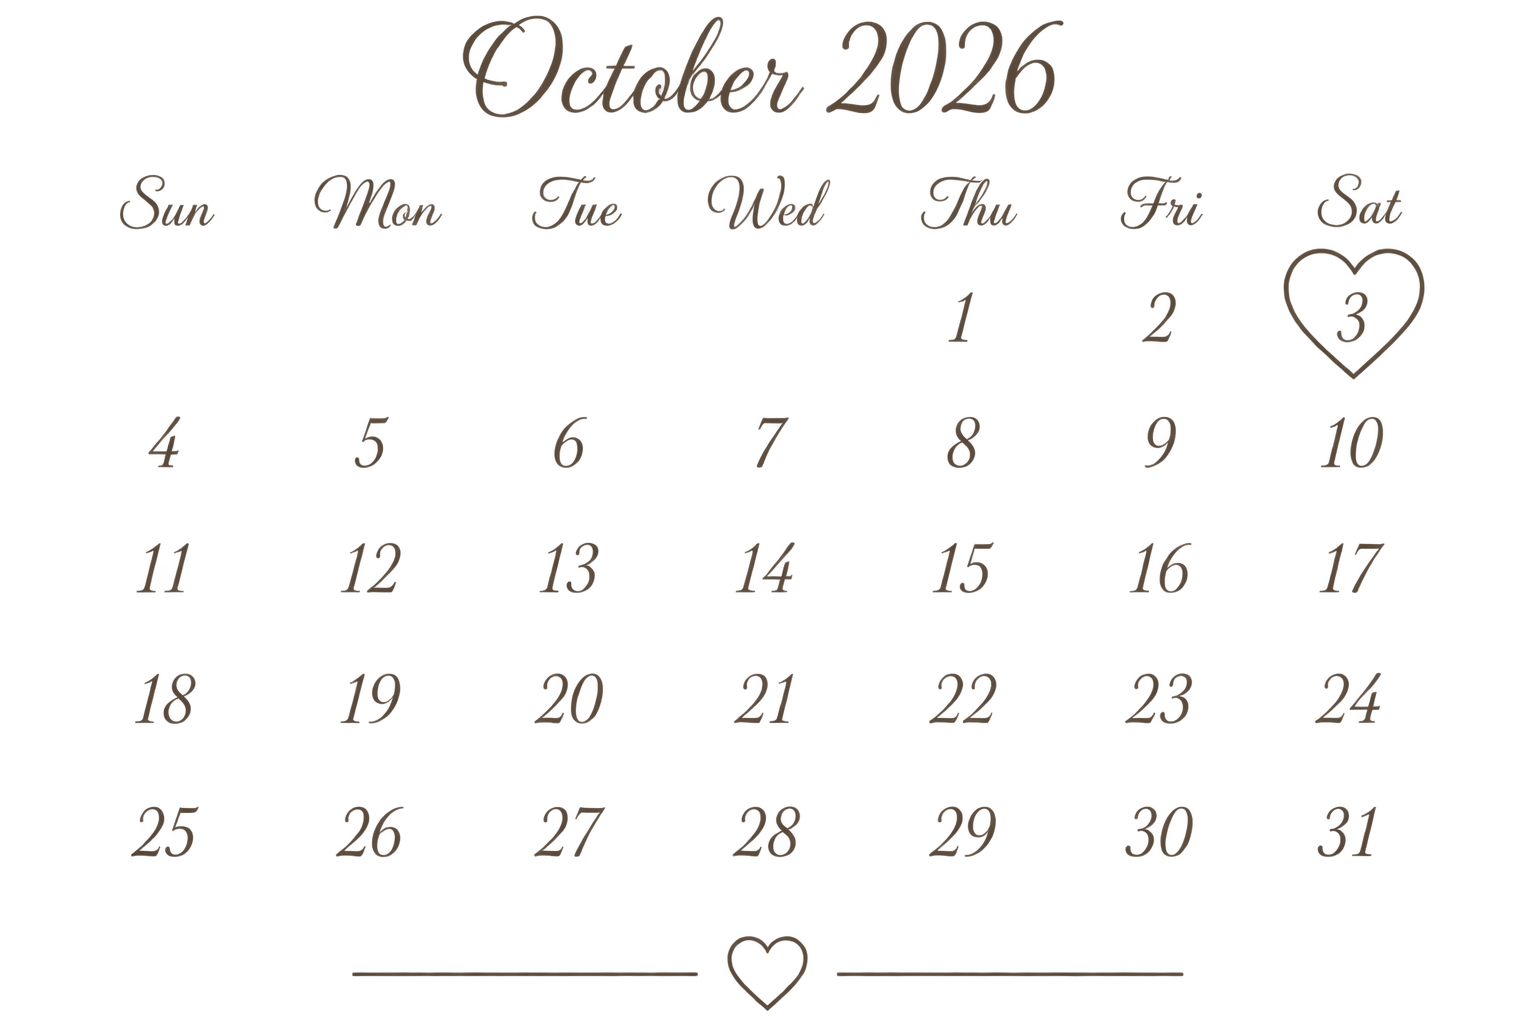
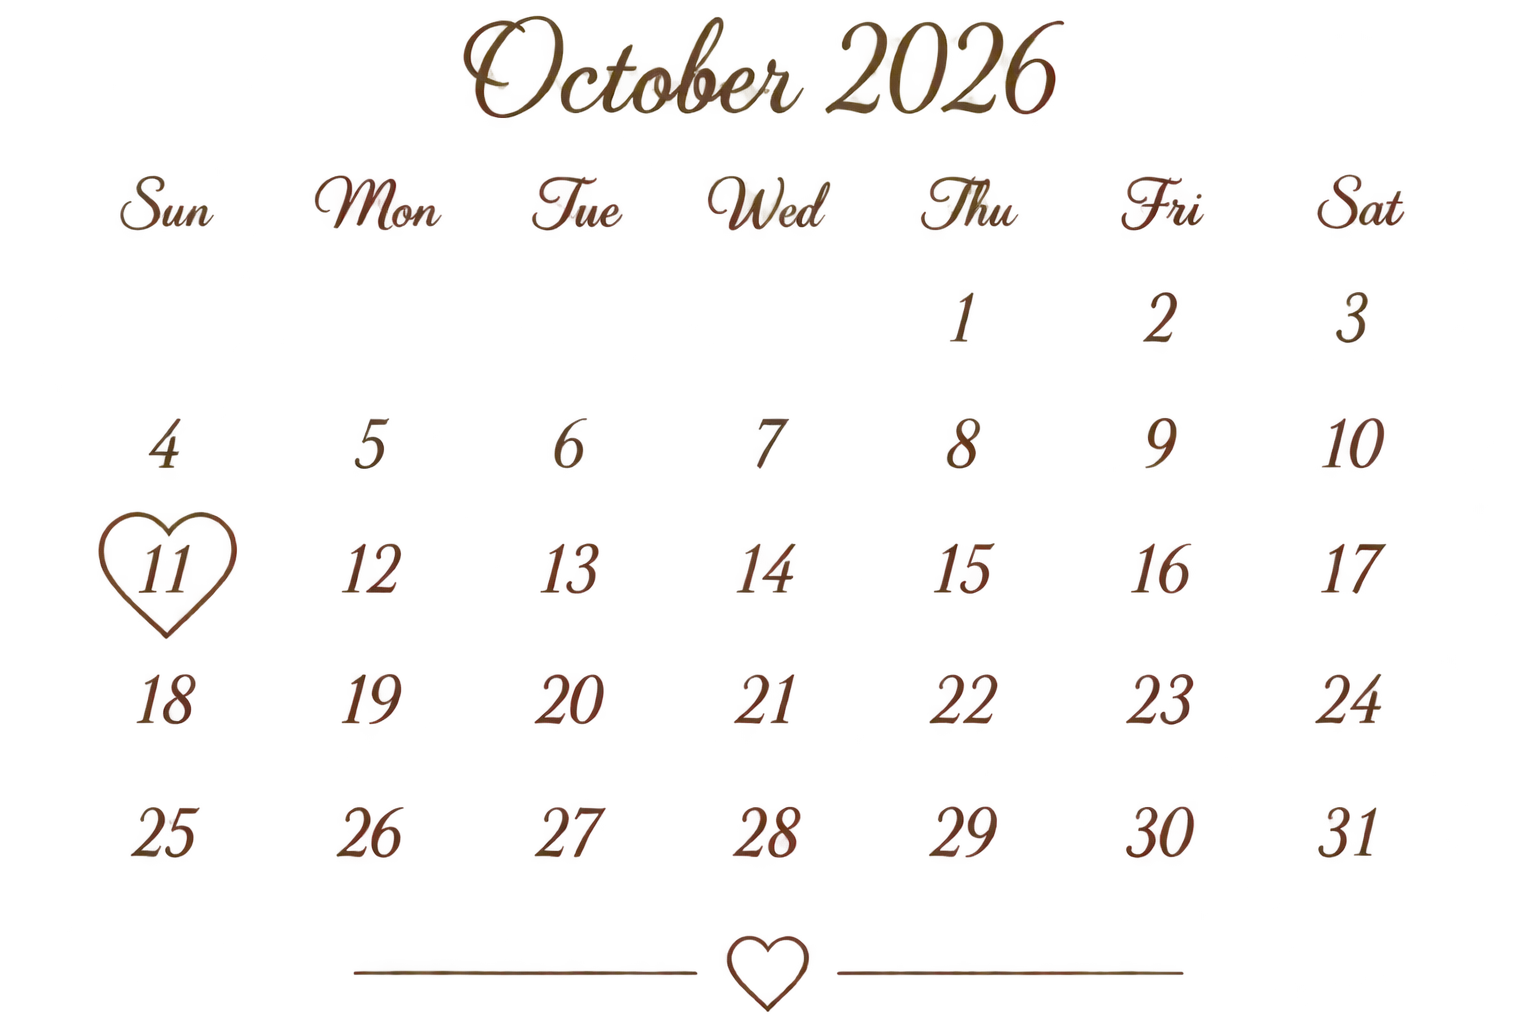
Ajout de la section calendrier788

diff --git a/templates/eya-et-sami/index.html b/templates/eya-et-sami/index.html
@@ -281,6 +281,42 @@
     </div>
   </section>
 
+
+  <!-- ═══════════════════════════════════════════
+       VENUE
+  ═══════════════════════════════════════════ -->
+  <section class="info-section venue-section reveal">
+    <div class="deco-circle"></div>
+    <div class="content-block centered">
+      <p class="label-small">Le lieu</p>
+      <h2 class="venue-name">L'olivier de la Soukra</h2>
+      <p class="venue-address">8 Avenue El Machatel, Tunis </p>
+      <div class="gold-rule short"></div>
+      <p class="venue-note">Dîner et soirée élégante</p>
+    </div>
+  </section>
+
+  <!-- ═══════════════════════════════════════════
+       MAP
+  ═══════════════════════════════════════════ -->
+  <section class="info-section map-section reveal">
+    <div class="content-block centered">
+      <p class="label-small">Localisation</p>
+      <div class="map-container">
+        <iframe
+          src="https://www.google.com/maps?q=L%27Olivier%20de%20la%20Soukra%2C%208%20Avenue%20El%20Machatel%2C%20Tunis&output=embed"
+          width="100%" height="250"
+          style="border:0; border-radius:15px;"
+          allowfullscreen="" loading="lazy">
+        </iframe>
+      </div>
+      <a href="https://maps.google.com/?q=L'Olivier+de+la+Soukra,+8+Avenue+El+Machatel,+Tunis" target="_blank" class="map-btn">
+        <span>🗺</span> Ouvrir dans Google Maps
+      </a>
+      <div class="gold-rule short"></div>
+    </div>
+  </section>
+
   
   <!-- ═══════════════════════════════════════════
        DATE SECTION
@@ -305,19 +341,7 @@
     </div>
   </section>
 
-  <!-- ═══════════════════════════════════════════
-       VENUE
-  ═══════════════════════════════════════════ -->
-  <section class="info-section venue-section reveal">
-    <div class="deco-circle"></div>
-    <div class="content-block centered">
-      <p class="label-small">Le lieu</p>
-      <h2 class="venue-name">Palais des fêtes — Salle Al-Andalus</h2>
-      <p class="venue-address">Route de Gabès, La Marsa, Tunisie</p>
-      <div class="gold-rule short"></div>
-      <p class="venue-note">Dîner et soirée élégante</p>
-    </div>
-  </section>
+
 
   <!-- ═══════════════════════════════════════════
        GALLERY
@@ -371,26 +395,7 @@
     </div>
   </section>
 
-  <!-- ═══════════════════════════════════════════
-       MAP
-  ═══════════════════════════════════════════ -->
-  <section class="info-section map-section reveal">
-    <div class="content-block centered">
-      <p class="label-small">Localisation</p>
-      <div class="map-container">
-        <iframe
-          src="https://www.google.com/maps/embed?pb=!1m18!1m12!1m3!1d3194.456789012345!2d10.280371!3d36.866509!2m3!1f0!2f0!3f0!3m2!1i1024!2i768!4f13.1!3m3!1m2!1s0x12fd2c5b9b7b7b7b%3A0x9b9b9b9b9b9b9b9b!2sLa%20Marsa%2C%20Tunis!5e0!3m2!1sfr!2stn!4v1700000000000!5m2!1sfr!2stn"
-          width="100%" height="250"
-          style="border:0; border-radius:15px;"
-          allowfullscreen="" loading="lazy">
-        </iframe>
-      </div>
-      <a href="https://maps.google.com/?q=La+Marsa+Tunis" target="_blank" class="map-btn">
-        <span>🗺</span> Ouvrir dans Google Maps
-      </a>
-      <div class="gold-rule short"></div>
-    </div>
-  </section>
+
 
   <!-- ═══════════════════════════════════════════
        DRESS CODE
